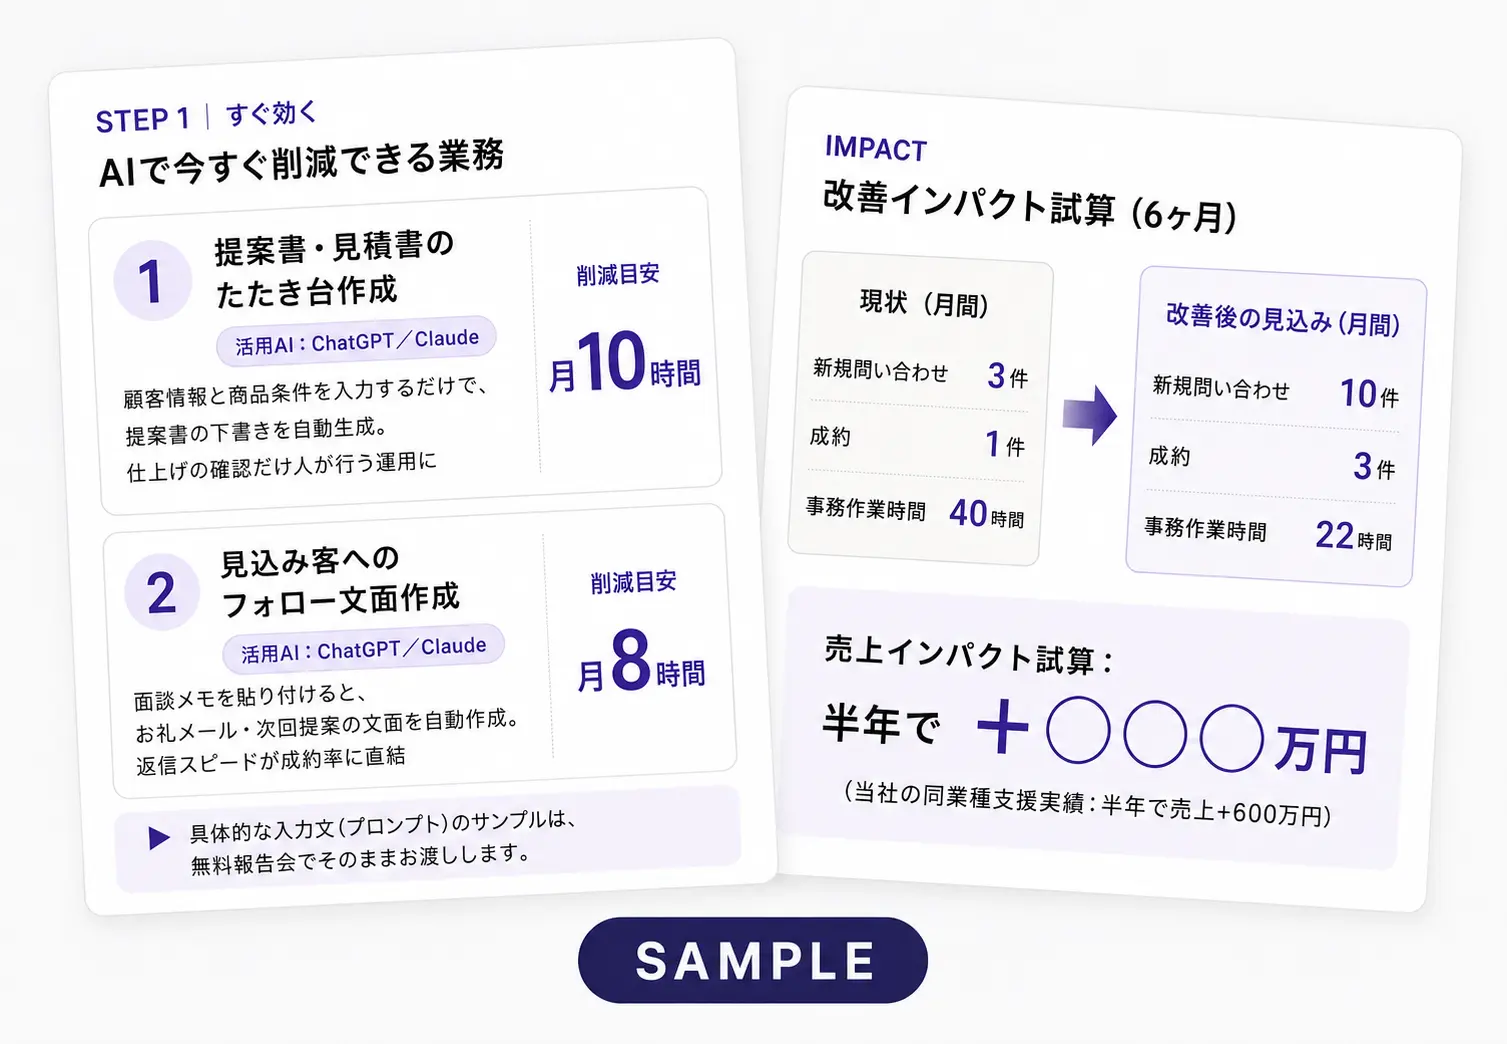
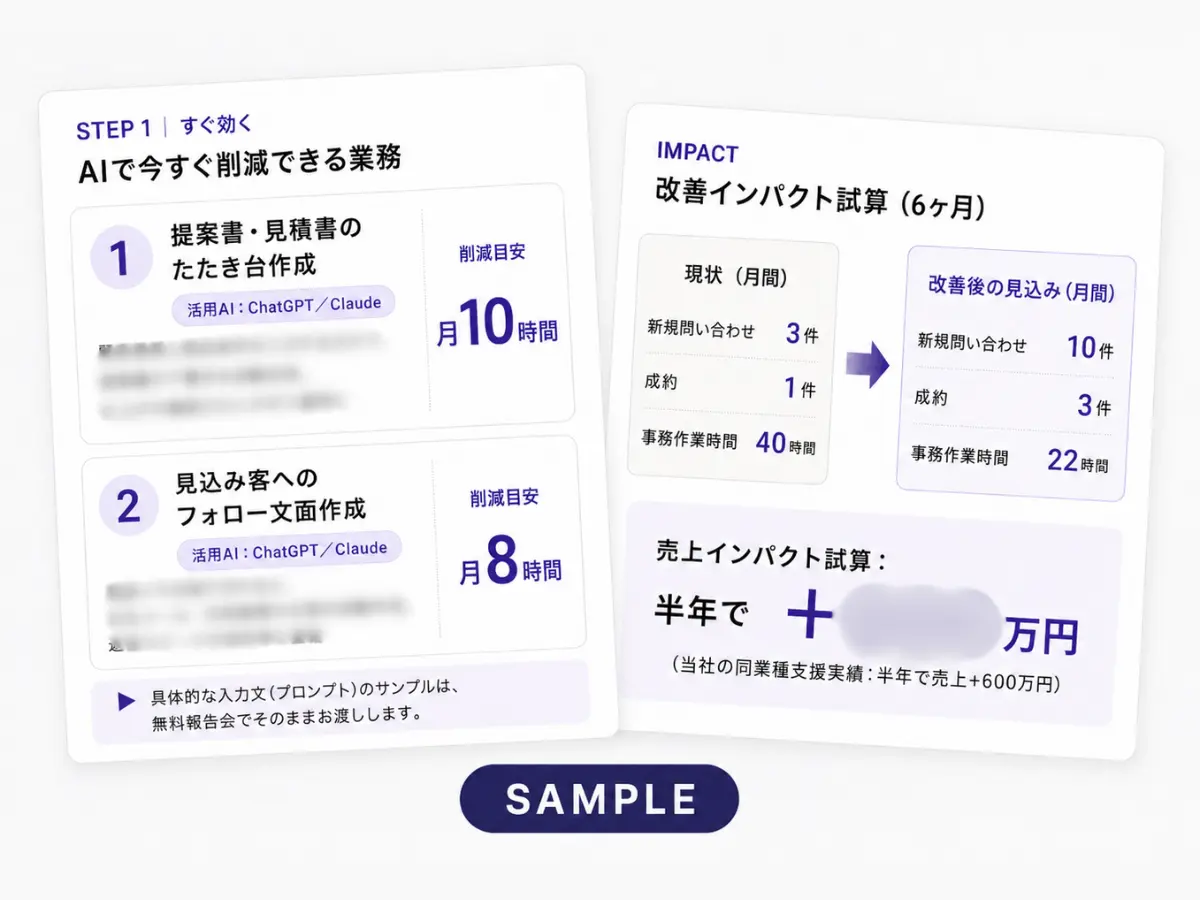
AI診断項目修正

diff --git a/AIservice.html b/AIservice.html
@@ -415,7 +415,7 @@ footer{border-top:1px solid var(--line);padding:36px 0;font-size:12.5px;color:va
       <div class="flow">
         <div class="step">1</div>
         <h3>フォームに回答（3分）</h3>
-        <p>8つの質問に答えるだけ。その場でAI活用余地の簡易スコアを表示します。</p>
+        <p>11の質問に答えるだけ。その場でAI活用余地の簡易スコアを表示します。</p>
       </div>
       <div class="flow">
         <div class="step">2</div>
@@ -452,7 +452,7 @@ footer{border-top:1px solid var(--line);padding:36px 0;font-size:12.5px;color:va
       </details>
       <details>
         <summary>診断ではどんなことを聞かれますか？</summary>
-        <div class="a">業種・従業員数のほか、「時間がかかっている業務」「集客の現状」など8問です。機密情報や顧客情報の入力は不要です。</div>
+        <div class="a">業種・従業員数のほか、「時間がかかっている業務」「集客の現状」「問い合わせ件数」など11問です。機密情報や顧客情報の入力は不要です。</div>
       </details>
     </div>
   </div>
@@ -513,16 +513,44 @@ footer{border-top:1px solid var(--line);padding:36px 0;font-size:12.5px;color:va
           <label class="chip"><input type="radio" name="q5">一部業務で使っている</label>
         </div>
       </div>
+            <div class="q">
+        <label class="q-label">Q6. 月の新規問い合わせ・相談件数は？<span class="req">必須</span></label>
+        <div class="chips" data-single id="q-inquiries">
+          <label class="chip"><input type="radio" name="q6i">0〜2件</label>
+          <label class="chip"><input type="radio" name="q6i">3〜5件</label>
+          <label class="chip"><input type="radio" name="q6i">6〜10件</label>
+          <label class="chip"><input type="radio" name="q6i">11件以上</label>
+        </div>
+      </div>
       <div class="q">
-        <label class="q-label">Q6. 会社名<span class="req">必須</span></label>
+        <label class="q-label">Q7. 問い合わせから成約になる割合は？（ざっくりで大丈夫です）<span class="req">必須</span></label>
+        <div class="chips" data-single id="q-closerate">
+          <label class="chip"><input type="radio" name="q7c">〜2割</label>
+          <label class="chip"><input type="radio" name="q7c">3〜5割</label>
+          <label class="chip"><input type="radio" name="q7c">6割以上</label>
+          <label class="chip"><input type="radio" name="q7c">把握していない</label>
+        </div>
+      </div>
+      <div class="q">
+        <label class="q-label">Q8. 月の売上規模は？（任意）</label>
+        <div class="chips" data-single id="q-revenue">
+          <label class="chip"><input type="radio" name="q8r">〜50万円</label>
+          <label class="chip"><input type="radio" name="q8r">50〜200万円</label>
+          <label class="chip"><input type="radio" name="q8r">200〜500万円</label>
+          <label class="chip"><input type="radio" name="q8r">500万円以上</label>
+          <label class="chip"><input type="radio" name="q8r">回答しない</label>
+        </div>
+      </div>
+<div class="q">
+        <label class="q-label">Q9. 会社名<span class="req">必須</span></label>
         <input type="text" id="q-company" placeholder="例）〇〇保険サービス株式会社">
       </div>
       <div class="q">
-        <label class="q-label">Q7. お名前<span class="req">必須</span></label>
+        <label class="q-label">Q10. お名前<span class="req">必須</span></label>
         <input type="text" id="q-name" placeholder="例）山田 太郎">
       </div>
       <div class="q">
-        <label class="q-label">Q8. メールアドレス（診断レポートの送付先）<span class="req">必須</span></label>
+        <label class="q-label">Q11. メールアドレス（診断レポートの送付先）<span class="req">必須</span></label>
         <input type="email" id="q-email" placeholder="例）info@example.co.jp">
         <input type="text" id="q-website" name="website" tabindex="-1" autocomplete="off" style="position:absolute;left:-9999px;height:0;overflow:hidden" aria-hidden="true">
       </div>
@@ -597,6 +625,9 @@ document.getElementById('submitBtn').addEventListener('click',()=>{
     tasks:    chipValues('q-tasks').join('、'),
     channels: chipValues('q-channels').join('、'),
     ai:       chipValues('q-ai')[0]||'',
+    inquiries: chipValues('q-inquiries')[0]||'',
+    closerate: chipValues('q-closerate')[0]||'',
+    revenue:  chipValues('q-revenue')[0]||'',
     company:  document.getElementById('q-company').value.trim(),
     name:     document.getElementById('q-name').value.trim(),
     email:    document.getElementById('q-email').value.trim(),
@@ -608,9 +639,11 @@ document.getElementById('submitBtn').addEventListener('click',()=>{
   if(!data.size) missing.push('Q2 従業員数');
   if(!data.tasks) missing.push('Q3 時間を取られている業務');
   if(!data.ai) missing.push('Q5 AI利用状況');
-  if(!data.company) missing.push('Q6 会社名');
-  if(!data.name) missing.push('Q7 お名前');
-  if(!/^[^\s@]+@[^\s@]+\.[^\s@]+$/.test(data.email)) missing.push('Q8 メールアドレス');
+  if(!data.inquiries) missing.push('Q6 月の問い合わせ件数');
+  if(!data.closerate) missing.push('Q7 成約の割合');
+  if(!data.company) missing.push('Q9 会社名');
+  if(!data.name) missing.push('Q10 お名前');
+  if(!/^[^\s@]+@[^\s@]+\.[^\s@]+$/.test(data.email)) missing.push('Q11 メールアドレス');
   if(missing.length){
     errEl.textContent='未入力の項目があります：'+missing.join(' / ');
     errEl.style.display='block';
